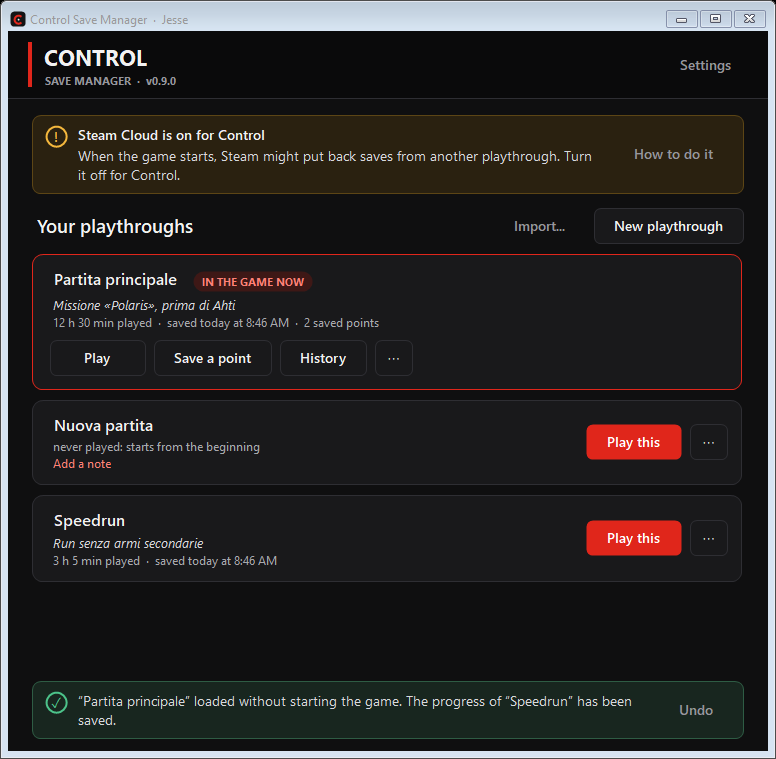
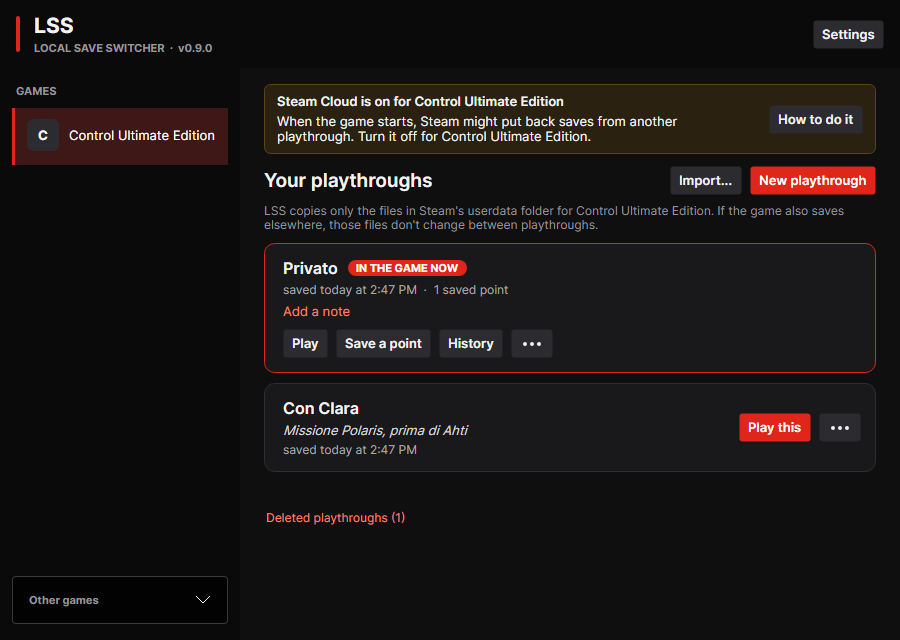
README for LSS

diff --git a/README.md b/README.md
@@ -1,23 +1,41 @@
-# Control Save Manager
+# LSS — Local Save Switcher
 
-Several playthroughs of **Control** (Steam) on the same account: pick the one
-you want to play and the app loads its saves and starts the game. With saved
-points for the hard parts and an automatic copy before every operation.
+Multiple playthroughs for Steam games (Windows and Linux).
 
 ![Main window](docs/img/main.png)
 
-The app is in English or Italian, following the Windows language.
+LSS keeps several playthroughs of the same game on the same Steam account.
+Pick the one you want to play and LSS loads its saves and starts the game.
+Before every switch it makes a copy, and you can save points for the hard
+parts and go back to them later.
 
-## Installation
+It works with every Steam game that keeps its saves in Steam's `userdata`
+folder. It runs on Windows 10/11 and on Linux, and the interface is in English
+or Italian, following the system language.
 
-1. Download `ControlSaveManager-<version>-win-x64.zip` from the
-   [releases page](https://github.com/Andrix64/Control-Savegame-Switcher/releases)
-   and extract `ControlSaveManager.exe` wherever you like.
+## Which games work
+
+LSS shows the games it finds in your Steam library. A game works when it has
+saves in `userdata` (the folder `<Steam>/userdata/<account>/<AppID>`). Games
+that have no saves yet are shown as *No saves yet: start the game once*. Games
+that keep their saves somewhere else are listed under **Other games** with the
+reason, and LSS doesn't manage them yet.
+
+Some games save in `userdata` and also in another folder. LSS copies only the
+`userdata` folder, so the other files are not switched with the playthrough.
+If a game needs more files kept the same, see [Settings](#settings).
+
+Games that were tested are listed in [docs/COMPATIBILITY.md](docs/COMPATIBILITY.md).
+
+## Installation — Windows
+
+1. Download `LSS-<version>-win-x64.zip` from the
+   [releases page](https://github.com/Andrix64/Local-Save-Switcher/releases)
+   and extract `LSS.exe` wherever you like.
 2. Run it. Nothing to install: the program already contains everything it
    needs (that's why it's about 50 MB).
 
-Requirements: Windows 10 or 11, 64-bit, and Control on Steam started at least
-once.
+Requirements: Windows 10 or 11, 64-bit, and Steam installed.
 
 > **Digital signature.** Releases published on GitHub will be signed by
 > SignPath Foundation (see [CODE_SIGNING.md](CODE_SIGNING.md)) once signing is
@@ -26,15 +44,30 @@ once.
 > Smart App Control, if it's on, may block it. Even when signed, SmartScreen
 > may warn for a while until the program becomes known.
 
-On first start the app asks what to call the playthrough already in the game
-and saves it as your first playthrough.
+## Installation — Linux
 
-### Before you start: turn off Steam Cloud for Control
+Linux x64 only. Steam can be installed natively, as Flatpak or as Snap: all
+three are supported. Pick the file for your distribution from the
+[releases page](https://github.com/Andrix64/Local-Save-Switcher/releases),
+where `<version>` is the version in the file name, for example `1.0.0-beta.1`.
+
+| Distribution | File | Command |
+|---|---|---|
+| Ubuntu, Debian, Linux Mint | `lss_<version>_amd64.deb` | `sudo apt install ./lss_<version>_amd64.deb` |
+| Fedora | `lss-<version>-1.x86_64.rpm` | `sudo dnf install ./lss-<version>-1.x86_64.rpm` |
+| Steam Deck (desktop mode), openSUSE, Arch and others | `LSS-<version>-x86_64.AppImage` | `chmod +x LSS-<version>-x86_64.AppImage`, then run it |
+| Any other distribution | `LSS-<version>-linux-x64.tar.gz` | extract it, then `./install.sh` (to remove it: `./install.sh --uninstall`) |
+
+The AppImage needs no installation. The `.tar.gz` installs into `~/.local`
+and doesn't need root.
+
+## Before you start: turn off Steam Cloud
 
 With Steam Cloud on, Steam may put back saves from another playthrough when
-the game starts. Turn it off for Control: in Steam, **Library → right-click
-Control → Properties → General**, and switch off *Keep games saves in the
-Steam Cloud*. While it's on, the app shows a yellow bar at the top.
+the game starts. Turn it off for the game: in Steam, open the **Library**,
+right-click the game, choose **Properties**, and in **General** switch off
+*Keep games saves in the Steam Cloud*. While it's on, LSS shows a yellow bar at
+the top.
 
 ## How to use it
 
@@ -44,9 +77,9 @@ Each playthrough has its own saves. The one with the red border and
 *IN THE GAME NOW* is the one loaded in the game.
 
 - **Play this**: saves the progress of the current playthrough, loads the
-  chosen one and starts Control through Steam. No questions asked: a copy is
+  chosen one and starts the game through Steam. No questions asked: a copy is
   made before every switch.
-- **Play**, on the playthrough already in the game: only starts Control.
+- **Play**, on the playthrough already in the game: only starts the game.
 - **⋯** on every playthrough: *Load without starting*, *Rename*, *Edit note*,
   *Export to a file...* and *Delete playthrough...*. If you load without
   starting, an **Undo** button appears at the bottom to go straight back to
@@ -54,21 +87,19 @@ Each playthrough has its own saves. The one with the red border and
 - **New playthrough**: with the game's current saves, or empty to start again
   from the beginning.
 
-  ![New playthrough](docs/img/newprofile.png)
+  ![New playthrough](docs/img/new-playthrough.png)
 
-- **Import...**: adds a playthrough exported on another PC.
+- **Import...**: adds a playthrough exported on another computer.
 
 Each card shows the note, the play time, when it was last saved and the saved
 points.
 
 ### While you play
 
-While Control is running the app doesn't touch the saves and says so at the
-top. When you close the game, your progress is saved automatically to the
-playthrough you were playing and the play time is updated (the app needs to
-be open).
-
-![Game running](docs/img/playing.png)
+While the game is running LSS doesn't touch the saves and says so at the top.
+When you close the game, your progress is saved automatically to the
+playthrough you were playing and the play time is updated (LSS needs to be
+open).
 
 ### History and saved points
 
@@ -82,32 +113,41 @@ current situation is copied, so you can always change your mind.
 
 ### Settings
 
-- *“Play this” also starts Control*: if you turn it off, the playthrough is
+- *“Play this” also starts the game*: if you turn it off, the playthrough is
   only loaded.
-- *Save progress when you close Control*.
+- *Save progress when you close the game*.
 - *Same game options for all playthroughs*: controls, audio and subtitles stay
   the same when you switch playthrough.
+- *Files kept the same*: other files of the game that you want to share
+  between all playthroughs, for example a preferences file.
 - How many automatic copies to keep (20 by default, 0 = all).
 
 ![Settings](docs/img/settings.png)
 
 ## Where the files are
 
-Playthroughs, saved points, automatic copies and the operation log
-(`log.txt`) are in `%LOCALAPPDATA%\ControlSaveManager` (usually
-`C:\Users\<name>\AppData\Local\ControlSaveManager`). OneDrive doesn't sync
-that folder, so saves aren't locked, half-downloaded or duplicated as
-"conflict copies". Settings has a button to open it; otherwise press Win+R and
-type `%LOCALAPPDATA%\ControlSaveManager`.
+Playthroughs, saved points, automatic copies and the operation log (`log.txt`)
+are in one folder per account and game:
 
-If more than one Steam account on the PC has Control, the app asks which one
-to use at startup; each account has its own playthroughs.
+- Windows: `%LOCALAPPDATA%\LSS` (usually `C:\Users\<name>\AppData\Local\LSS`).
+- Linux: `~/.local/share/LSS`.
 
-If you used a test version that saved to `Documents\ControlSaves`, the data is
-moved to the new folder automatically on first start, and the app tells you.
+OneDrive doesn't sync the Windows folder, so saves aren't locked,
+half-downloaded or duplicated as "conflict copies". Settings has a button to
+open the folder.
 
-To uninstall, just delete the exe. If you want, also delete
-`%LOCALAPPDATA%\ControlSaveManager` (but that's where your playthroughs are).
+If more than one Steam account on the computer has saves for a game, LSS asks
+which one to use at startup; each account has its own playthroughs.
+
+To uninstall, delete the exe (or remove the package). To delete the data as
+well, delete the folder above: that's where your playthroughs are.
+
+## Coming from Control Save Manager
+
+LSS is the new name of Control Save Manager. On first start, the data is moved
+automatically from `%LOCALAPPDATA%\ControlSaveManager` to `%LOCALAPPDATA%\LSS`,
+and the app tells you. Playthroughs exported with Control Save Manager can
+still be imported.
 
 ## FAQ
 
@@ -125,10 +165,19 @@ automatic copies removes it.
 **Saves get mixed up between playthroughs.** It's almost always Steam Cloud:
 make sure it's off (see above).
 
+**My game isn't in the list.** Only games with saves in `userdata` are listed.
+Look in **Other games** for the reason. To tell us about a game, use the
+[game report](https://github.com/Andrix64/Local-Save-Switcher/issues/new/choose)
+form.
+
+**Something went wrong.** Open a bug report from the
+[issues page](https://github.com/Andrix64/Local-Save-Switcher/issues/new/choose)
+and attach the file `log.txt` from the data folder (see above).
+
 ## License
 
 [MIT](LICENSE). What's new in each version: [CHANGELOG](CHANGELOG.md). For
 developers: [docs/DEVELOPMENT.md](docs/DEVELOPMENT.md).
 
-*Control is a trademark of Remedy Entertainment. This program is not
-affiliated with or endorsed by Remedy or Valve.*
+*Steam is a trademark of Valve Corporation. LSS is not affiliated with or
+endorsed by Valve. Game names are trademarks of their owners.*

diff --git a/CODE_SIGNING.md b/CODE_SIGNING.md
@@ -6,7 +6,7 @@ certificate by [SignPath Foundation](https://signpath.org/).
 ## What is signed
 
 Only `LSS.exe` from the release zips published on the
-[Releases page](https://github.com/Andrix64/Control-Savegame-Switcher/releases)
+[Releases page](https://github.com/Andrix64/Local-Save-Switcher/releases)
 of this repository. The executable is built by GitHub Actions
 ([`.github/workflows/build.yml`](.github/workflows/build.yml)) directly from
 the source code in this repository, from a version tag (`v*`). Nothing built
@@ -26,7 +26,8 @@ This program will not transfer any information to other networked systems
 unless specifically requested by the user or the person installing or
 operating it.
 
-Control Save Manager works only on local files: the Control save folder in
-Steam's `userdata` and its own data in `%LOCALAPPDATA%\ControlSaveManager`.
-To start the game it asks the locally installed Steam client to run Control
-(`steam://rungameid/870780`); it does not connect to the internet by itself.
+LSS works only on local files: the save folders of the games in Steam's
+`userdata` and its own data in `%LOCALAPPDATA%\LSS` (on Linux
+`~/.local/share/LSS`). To start a game it asks the locally installed Steam
+client to run it (`steam://rungameid/<AppID>`); it does not connect to the
+internet by itself.

diff --git a/docs/DEVELOPMENT.md b/docs/DEVELOPMENT.md
@@ -399,7 +399,7 @@ with `--no-incremental` (see [Smart App Control](#smart-app-control)).
 
 ## Build on GitHub
 
-The repository is on [GitHub](https://github.com/Andrix64/Control-Savegame-Switcher)
+The repository is on [GitHub](https://github.com/Andrix64/Local-Save-Switcher)
 (needed for free signing, see below). The `.github/workflows/build.yml`
 workflow runs on Windows on every push to `main`, every pull request and on
 demand (*Run workflow*):
